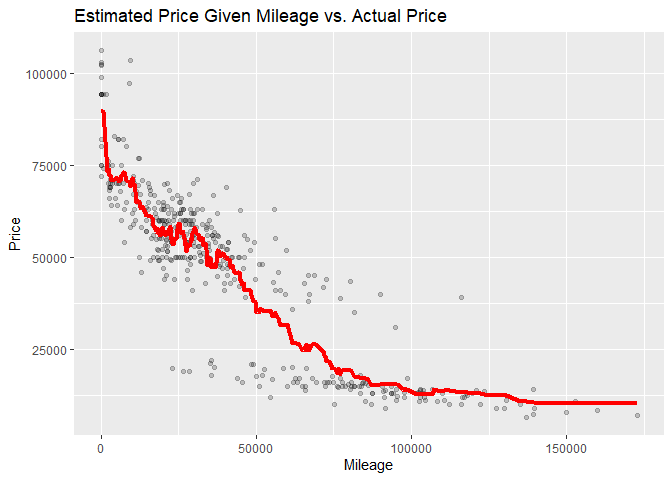
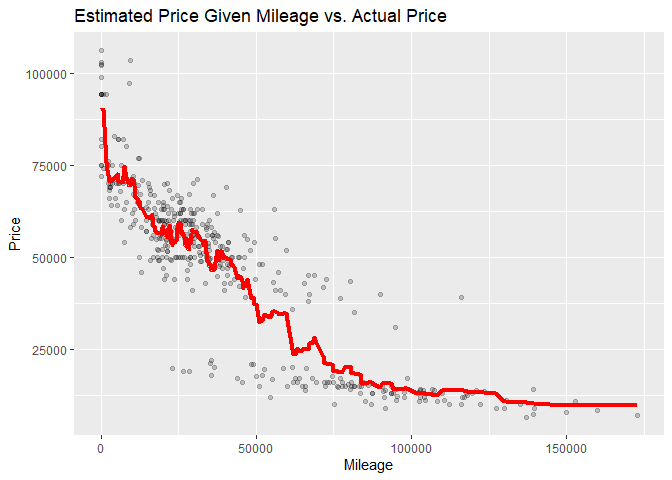
Cleaning up markdown file

diff --git a/HW1-First-Draft.md b/HW1-First-Draft.md
@@ -1,22 +1,16 @@
-\#Question 1
+# Question 1
 
 ## 1) Data Visualization: Flights at ABIA
 
 ![](HW1-First-Draft_files/figure-markdown_strict/unnamed-chunk-3-1.png)![](HW1-First-Draft_files/figure-markdown_strict/unnamed-chunk-3-2.png)
-\#Focusing on departures out of Austin, these figures provide insights
-into arrival delays and cancellation rate by airline. I chose to focus
-on arrival delays specifically because I consider this the superior
-measure of passenger experience, given that departure delays can often
-be made up for (at least in part) in the air.
+
+# Focusing on departures out of Austin, these figures provide insights into arrival delays and cancellation rate by airline. I chose to focus on arrival delays specifically because I consider this the superior measure of passenger experience, given that departure delays can often be made up for (at least in part) in the air.
 
 ![](HW1-First-Draft_files/figure-markdown_strict/unnamed-chunk-4-1.png)
 
-\#After defining a new variable for a “Signficant Disruption” that
-represents a flight that is either cancelled or delayed by 2+ hours,
-this visualization shows the Significant Disruption Rate by carrier for
-flights out of AUS.
+# After defining a new variable for a “Signficant Disruption” that represents a flight that is either cancelled or delayed by 2+ hours, this visualization shows the Significant Disruption Rate by carrier for flights out of AUS.
 
-\#Question 2
+# Question 2
 
 ## 2A) 95th Percentile of Heights for Female Athletics Competitors
 
@@ -40,13 +34,15 @@ flights out of AUS.
 
 # Question 3
 
-\##350 Trim To predict the price of a car with a 350 trim given its
-mileage using K-nearest neighbors, we can first use K-fold cross
-validation to determine the K with the lowest average RMSE.
+## 350 Trim
+
+To predict the price of a car with a 350 trim given its mileage using
+K-nearest neighbors, we can first use K-fold cross validation to
+determine the K with the lowest average RMSE.
 
 ![](HW1-First-Draft_files/figure-markdown_strict/unnamed-chunk-8-1.png)
 
-    ## As can be seen above, the K with the lowest average RMSE in this model is 18 . As this is the most optimal RMSE, we will then use it to model price given mileage.
+    ## As can be seen above, the K with the lowest average RMSE in this model is 15 . As this is the most optimal RMSE, we will then use it to model price given mileage.
 
 The predicted values in this model
 
@@ -58,7 +54,9 @@ The predicted values in this model
 
 ![](HW1-First-Draft_files/figure-markdown_strict/unnamed-chunk-11-1.png)
 
-\##AMG Trim We can repeat this process for the AMG trim.
+## AMG Trim
+
+We can repeat this process for the AMG trim.
 
 ![](HW1-First-Draft_files/figure-markdown_strict/unnamed-chunk-13-1.png)
 
@@ -67,8 +65,8 @@ The predicted values in this model
 
     cat("In this case, the K with the lowest average RMSE in this model is", AMG_opt_k,". We will then use it to model price given mileage for cars with an AMG trim. ")
 
-    ## In this case, the K with the lowest average RMSE in this model is 48 . We will then use it to model price given mileage for cars with an AMG trim.
+    ## In this case, the K with the lowest average RMSE in this model is 64 . We will then use it to model price given mileage for cars with an AMG trim.
 
 ![](HW1-First-Draft_files/figure-markdown_strict/unnamed-chunk-16-1.png)
 
-    ## The AMG trim has the greater optimal value of K, being 48 versus the 350's optimal value of 18 . One potential explanation may be that there are more cars with an AMG trim, 1,413, compared to the 416 cars with a 350 trim. Since the 350 has less datapoints, it would take a relatively lower K to introduce greater bias into the model when compared to the AMG trim (since a greater K would 'cover' more datapoints). Balancing variance and bias in an optimal manner would then require choosing a smaller K compared to AMG, which has a greater amount of datapoints.
+    ## The AMG trim has the greater optimal value of K, being 64 versus the 350's optimal value of 15 . One potential explanation may be that there are more cars with an AMG trim, 1,413, compared to the 416 cars with a 350 trim. Since the 350 has less datapoints, it would take a relatively lower K to introduce greater bias into the model when compared to the AMG trim (since a greater K would 'cover' more datapoints). Balancing variance and bias in an optimal manner would then require choosing a smaller K compared to AMG, which has a greater amount of datapoints.
